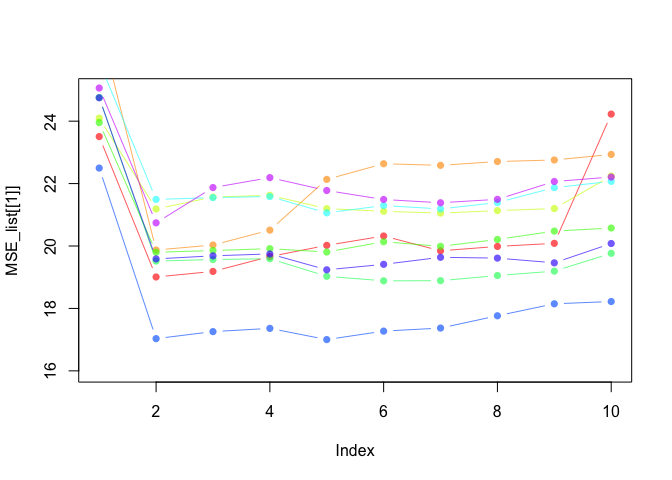
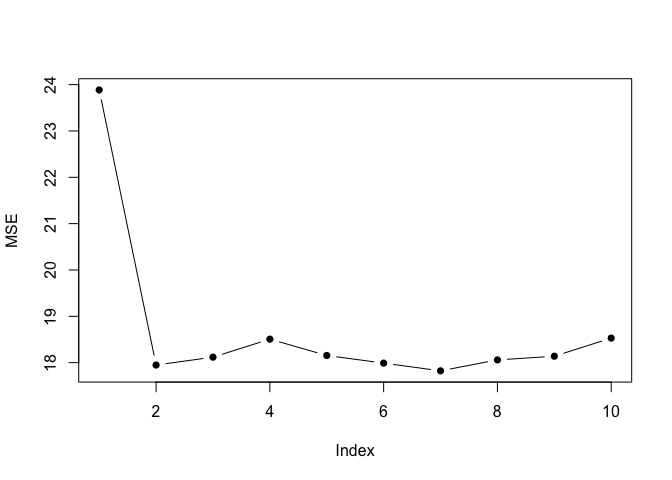
Remove untitled later

diff --git a/ReadMe.md b/ReadMe.md
@@ -3,14 +3,37 @@ Cross Validation Example
 Nishan Mudalige
 2022-10-01
 
+``` r
+knitr::opts_chunk$set(echo = TRUE)
+```
+
 ## Cross-Validation
+
+``` r
+# Required libraries for data analysis
+
+library(ISLR)
+library(ISLR2)
+```
+
+    ## 
+    ## Attaching package: 'ISLR2'
+
+    ## The following objects are masked from 'package:ISLR':
+    ## 
+    ##     Auto, Credit
+
+``` r
+library(bestglm)
+```
+
+    ## Loading required package: leaps
 
 ### Validation Set Approach
 
 Replicate the results in Figure 5.2
 
 ``` r
-library(ISLR)
 data(Auto)
 
 set.seed(6)
@@ -35,10 +58,10 @@ for(i in 1:10){
   MSE[i] = (sum((validation_set$mpg - fitted_values)^2)) / (n_valid - length(model$coefficients))
 }
 
-plot(MSE, type = "b", pch = 16)
+plot(MSE, type = "b", pch = 16, ylab = "MSE")
 ```
 
-![](ReadMe_files/figure-gfm/unnamed-chunk-1-1.png)<!-- -->
+![](ReadMe_files/figure-gfm/unnamed-chunk-2-1.png)<!-- -->
 
 ``` r
 set.seed(1)
@@ -69,15 +92,64 @@ for(i in 1:10){
 
 
 colour_vec = adjustcolor(rainbow(10), alpha = 0.65)
-plot(MSE_list[[1]], type = "b", pch = 16, col = colour_vec[1], ylim=c(16,25))
+plot(MSE_list[[1]], type = "b", pch = 16, col = colour_vec[1], ylim=c(16,25), ylab = "MSE")
 
 for(i in 2:9){
   lines(MSE_list[[i]], type="b", pch = 16, col = colour_vec[i])  
 }
 ```
 
-![](ReadMe_files/figure-gfm/unnamed-chunk-2-1.png)<!-- -->
+![](ReadMe_files/figure-gfm/unnamed-chunk-3-1.png)<!-- -->
 
+### Leave One Out Cross Validation (LOOCV)
+
+Replicate the results in Figure 5.4
+
+``` r
+X = Auto$horsepower
+Y = Auto$mpg
+
+loocv_list = NULL
+cv_data = NULL
+
+for(i in 1:10){
+  cv_data = cbind(cv_data, X^i)
+  loocv_list[[i]] = LOOCV(cv_data, Y)  
+}
+
+loocv_df = do.call(rbind.data.frame, loocv_list)
+names(loocv_df) = c("MSE", "SD of MSE")
+
+plot(loocv_df$MSE, type = "b", pch = 16, ylab = "MSE")
+```
+
+![](ReadMe_files/figure-gfm/unnamed-chunk-4-1.png)<!-- -->
+
+<!--
+# Define training control
+set.seed(123) 
+train.control <- trainControl(method = "cv", number = 10)
+# Train the model
+model <- train(Fertility ~., data = swiss, method = "lm",
+               trControl = train.control)
+# Summarize the results
+print(model)
+
+
+# library(kfoldcv4ts)
+# kfoldcv4ts::accuracy.kfold(df.VAR = data_VAR, k=3, n_ahead = 6, lags = opt.lags.AIC, var_index = 1)
+
+library(boot)
+
+nodal.glm <- glm(mpg ~ horsepower, data = Auto)
+cv.err <- cv.glm(Auto, nodal.glm, K = 5) 
+cv.err <- cv.glm(Auto, nodal.glm, K = nrow(Auto))
+
+cv.err$K
+cv.err$delta
+
+
+-->
 <!--
 ## R Markdown
 
